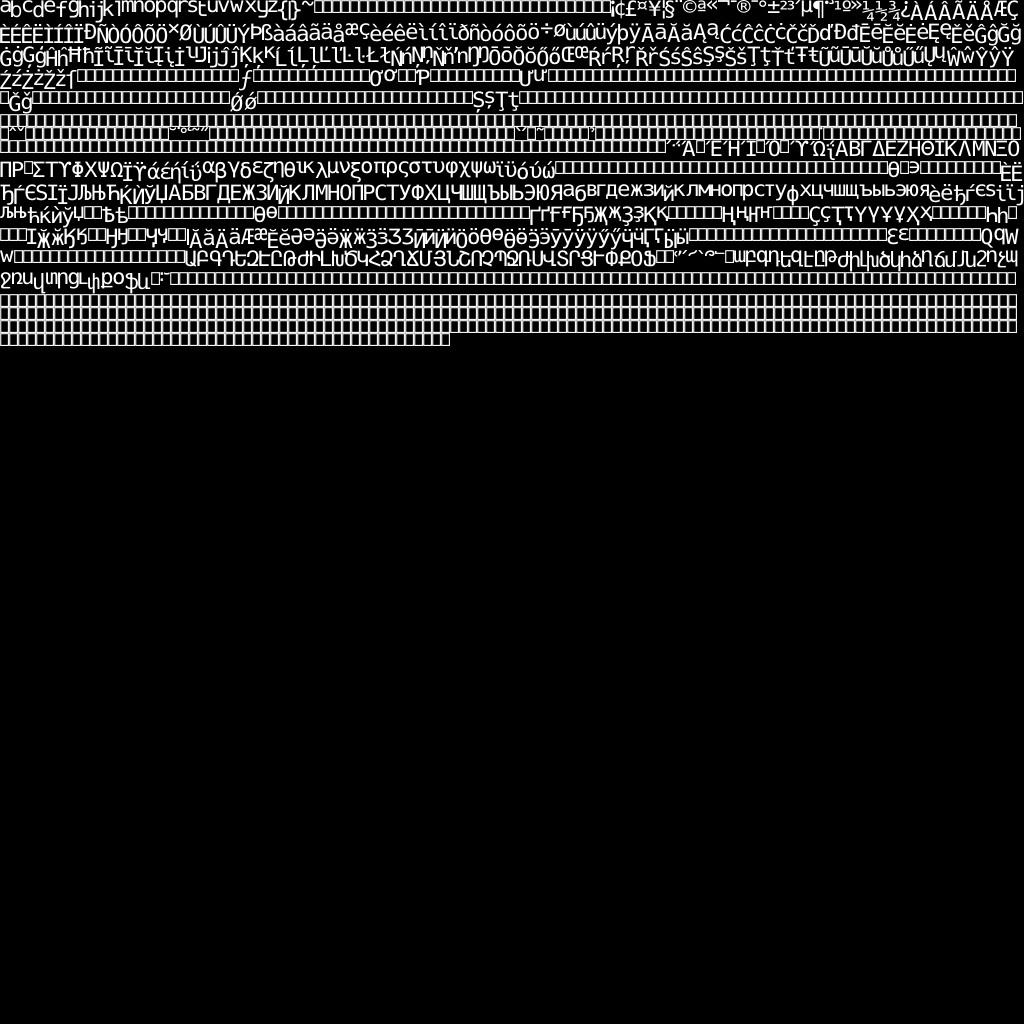
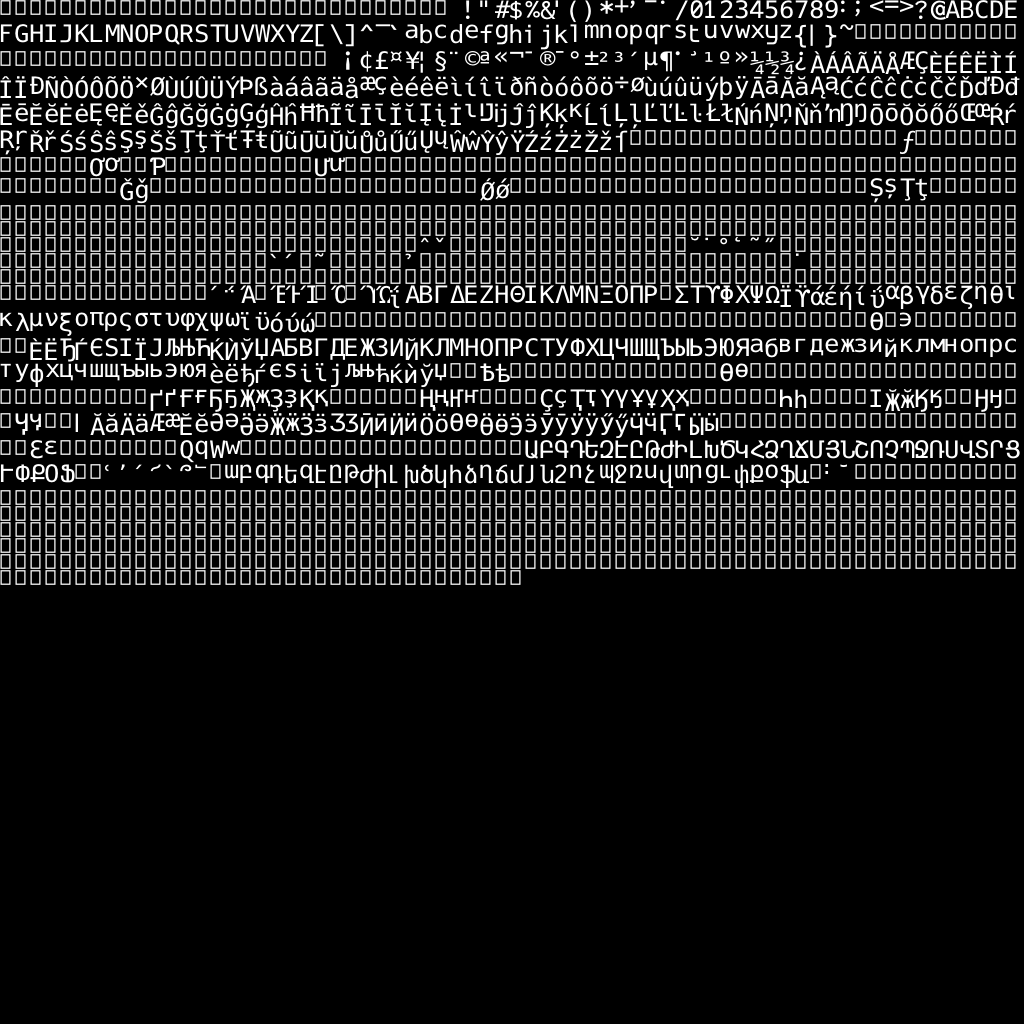
text shows up but is not aligned well

Changed region(s): [[0.0, 0.0, 1.0, 0.5938]]

diff --git a/src/Engine/ecs/systems/RenderSystem2D.cpp b/src/Engine/ecs/systems/RenderSystem2D.cpp
@@ -76,12 +76,11 @@ FontAtlas BB::CreateFontAtlas(MemoryArena& a_arena, const PathString& a_font_pat
         const int height = y1 - y0;
 
         const int height_mod = max_height - height;
-        const int y_offset = height_mod / 2;
 
         // Check if we need to move to next row
         if (current_x + width > atlas_size) {
             current_x = 0;
-            current_y += row_height;
+            current_y += row_height + 1;
             row_height = 0;
         }
 
@@ -91,7 +90,7 @@ FontAtlas BB::CreateFontAtlas(MemoryArena& a_arena, const PathString& a_font_pat
         atl.glyphs[i].pos.y = current_y;
         atl.glyphs[i].extent.x = width;
         atl.glyphs[i].extent.y = height;
-        atl.glyphs[i].y_offset = y_offset;
+        atl.glyphs[i].y_offset = height_mod;
         atl.glyphs[i].advance = advance * scale;
 
         if (width > 0 && height > 0)
@@ -101,7 +100,7 @@ FontAtlas BB::CreateFontAtlas(MemoryArena& a_arena, const PathString& a_font_pat
             stbtt_MakeGlyphBitmap(&font, atl.bitmap + bitmap_offset, width, height, atlas_size, scale, scale, glyph_index);
         }
 
-        current_x += width;
+        current_x += advance * scale;
         if (height > row_height)
             row_height = height;
     }
@@ -151,7 +150,7 @@ bool BB::RenderText(FontAtlas& a_font_atlas, const RCommandList a_list, GPUUploa
     // temp
     const RDescriptorIndex buffer_desc = a_font_atlas.per_frame[a_font_atlas.current_frame];
 
-    const size_t upload_size = a_string.size() * (sizeof(Glyph2D) * 4);
+    const size_t upload_size = a_string.size() * sizeof(Glyph2D);
     const size_t upload_start = a_ring_buffer.AllocateUploadMemory(upload_size, a_fence_value);
     if (upload_start == -1)
         return false;
@@ -165,23 +164,24 @@ bool BB::RenderText(FontAtlas& a_font_atlas, const RCommandList a_list, GPUUploa
 
     for (size_t i = 0; i < a_string.size(); i++)
     {
-        const size_t char_index = a_string[i] - a_font_atlas.char_start;
+        const char ch = a_string[i];
+        const size_t char_index = ch - a_font_atlas.char_start;
         if (char_index > a_font_atlas.char_count)
         {
             BB_WARNING(false, "trying to write a char that doesn't exist or goes out of bounds", WarningType::MEDIUM);
             return false;
         }
         const Glyph rd_gly = a_font_atlas.glyphs[char_index];
+        const float2 tex_pos = float2(static_cast<float>(rd_gly.pos.x), static_cast<float>(rd_gly.pos.y));
 
         Glyph2D glyph;
-        glyph.pos = float2(static_cast<float>(rd_gly.pos.x), static_cast<float>(rd_gly.pos.y));
+        glyph.pos = float2(pos.x, pos.y + rd_gly.y_offset);
         glyph.extent = float2(static_cast<float>(rd_gly.extent.x), static_cast<float>(rd_gly.extent.y));
-        glyph.uv0 = glyph.pos / float2(a_font_atlas.extent.x, a_font_atlas.extent.y);
-        glyph.uv1 = (glyph.pos + glyph.extent) / float2(a_font_atlas.extent.x, a_font_atlas.extent.y);
+        glyph.uv0 = tex_pos / float2(a_font_atlas.extent.x, a_font_atlas.extent.y);
+        glyph.uv1 = (tex_pos + glyph.extent) / float2(a_font_atlas.extent.x, a_font_atlas.extent.y);
 
         a_ring_buffer.MemcpyIntoBuffer(upload_start + i * sizeof(glyph), &glyph, sizeof(glyph));
-
-        pos.x += rd_gly.advance;
+        pos.x += rd_gly.advance * a_text_size.x + glyph.extent.x;
     }
 
     RenderCopyBufferRegion region;
@@ -220,7 +220,7 @@ bool BB::RenderText(FontAtlas& a_font_atlas, const RCommandList a_list, GPUUploa
     SetBlendMode(a_list, 0, blend_state.slice());
     StartRenderPass(a_list, start_rendering_info);
 
-    SetPrimitiveTopology(a_list, PRIMITIVE_TOPOLOGY::TRIANGLE_STRIP);
+    SetPrimitiveTopology(a_list, PRIMITIVE_TOPOLOGY::TRIANGLE_LIST);
     Material::BindMaterial(a_list, a_font_atlas.material);
 
     ShaderIndicesGlyph push_constant;
@@ -230,7 +230,7 @@ bool BB::RenderText(FontAtlas& a_font_atlas, const RCommandList a_list, GPUUploa
 
     SetPushConstantUserData(a_list, 0, sizeof(push_constant), &push_constant);
 
-    DrawVertices(a_list, 4, static_cast<uint32_t>(a_string.size()), 1, 0);
+    DrawVertices(a_list, 6, static_cast<uint32_t>(a_string.size()), 1, 0);
     
     EndRenderPass(a_list);
 

diff --git a/src/Engine/ecs/systems/RenderSystem.cpp b/src/Engine/ecs/systems/RenderSystem.cpp
@@ -5,6 +5,8 @@
 
 #include "AssetLoader.hpp"
 
+#include "Engine.hpp"
+
 using namespace BB;
 
 constexpr float BLOOM_IMAGE_DOWNSCALE_FACTOR = 1.f;
@@ -83,6 +85,14 @@ void RenderSystem::Init(MemoryArena& a_arena, const uint32_t a_back_buffer_count
 		m_raytrace_data.top_level.must_update = false;
 		m_raytrace_data.top_level.must_rebuild = false;
     }
+
+    PathString font_string = GetRootPath();
+    font_string.AddPathNoSlash("resources/fonts/ProggyVector.ttf");
+    PathString write_image = GetRootPath();
+    write_image.AddPathNoSlash("resources/fonts/ProggyVector.png");
+
+    m_font_atlas = CreateFontAtlas(a_arena, font_string, 32, 0);
+    FontAtlasWriteImage(write_image, m_font_atlas);
 }
 
 void RenderSystem::StartFrame(const RCommandList a_list)
@@ -205,9 +215,6 @@ void RenderSystem::UpdateRenderSystem(MemoryArena& a_per_frame_arena, const RCom
 		draw_list.transforms.push_back(shader_transform);
 	}
 
-	BindIndexBuffer(a_list, 0);
-	UpdateConstantBuffer(m_current_frame, a_list, a_draw_area, a_lights);
-
 	//if (m_raytrace_data.top_level.must_rebuild || !m_raytrace_data.top_level.accel_struct.IsValid())
     if (false)
 	{
@@ -227,10 +234,6 @@ void RenderSystem::UpdateRenderSystem(MemoryArena& a_per_frame_arena, const RCom
 
 	BindIndexBuffer(a_list, 0);
 	UpdateConstantBuffer(m_current_frame, a_list, a_draw_area, a_lights);
-
-    // sam please find a better way
-    SetPrimitiveTopology(a_list, PRIMITIVE_TOPOLOGY::TRIANGLE_LIST);
-    Material::BindMaterial(a_list, draw_list.draw_entries[0].master_material);
 	
     m_clear_stage.ExecutePass(a_list, a_draw_area, GetImageView(pfd.render_target_view));
 
@@ -240,6 +243,8 @@ void RenderSystem::UpdateRenderSystem(MemoryArena& a_per_frame_arena, const RCom
     m_raster_mesh_stage.ExecutePass(a_list, m_current_frame, a_draw_area, draw_list, GetImageView(pfd.render_target_view), GetImageView(pfd.bloom.descriptor_index_0));
     if (!m_options.skip_bloom)
 	    m_bloom_stage.ExecutePass(a_list, pfd.bloom.resolution, pfd.bloom.image, pfd.bloom.descriptor_index_0, pfd.bloom.descriptor_index_1, a_draw_area, GetImageView(pfd.render_target_view));
+
+    RenderText(m_font_atlas, a_list, m_upload_allocator, m_next_fence_value, a_draw_area, GetImageView(pfd.render_target_view), pfd.storage_buffer, float2(1.f), float2(0.f), "de");
 }
 
 void RenderSystem::DebugDraw(const RCommandList a_list, const uint2 a_draw_area)

diff --git a/src/Editor/main.cpp b/src/Editor/main.cpp
@@ -60,14 +60,6 @@ int main(int argc, char** argv)
     EditorGame def_game{};
     def_game.Init(engine_info.window_extent / 2, "dungeon", nullptr, lua_plugins.const_slice());
 
-    PathString font_string = GetRootPath();
-    font_string.AddPathNoSlash("resources/fonts/ProggyVector.ttf");
-    PathString write_image = GetRootPath();
-    write_image.AddPathNoSlash("resources/fonts/ProggyVector.png");
-
-    FontAtlas atlas = CreateFontAtlas(main_arena, font_string, 28, (int)'a');
-    FontAtlasWriteImage(write_image, atlas);
-
 	while (true)
 	{
         InputEvent input_events[INPUT_EVENT_BUFFER_MAX]{};

diff --git a/src/Engine/ecs/systems/RenderSystem.hpp b/src/Engine/ecs/systems/RenderSystem.hpp
@@ -9,6 +9,7 @@
 #include "RasterMeshStage.hpp"
 #include "BloomStage.hpp"
 #include "LineStage.hpp"
+#include "RenderSystem2D.hpp"
 
 namespace BB
 {
@@ -154,5 +155,6 @@ namespace BB
         RasterMeshStage m_raster_mesh_stage;
         BloomStage m_bloom_stage;
 		LineStage m_line_stage;
+        FontAtlas m_font_atlas;
 	};
 }
